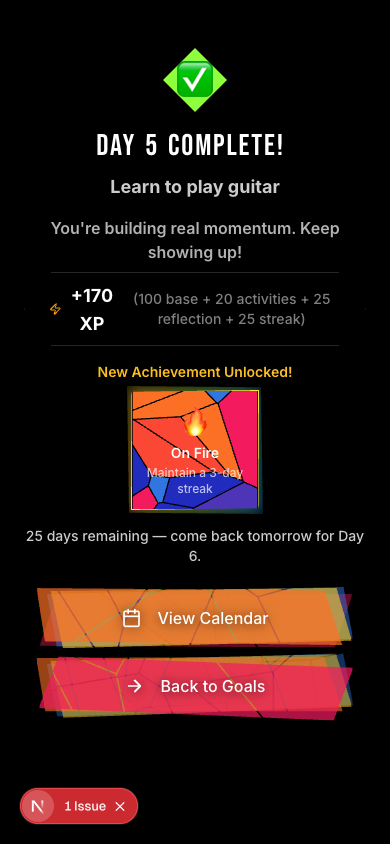
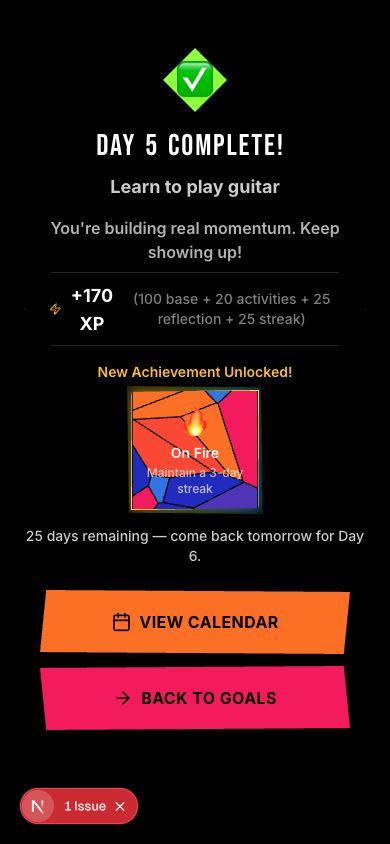
feat: new shard OG card, fresh screenshots, fix Your Activities wrapping
- OG card rebuilt with angled/skewed shard tiles + per-letter colored tagline
- Fresh screenshots for homepage: calendar (colored day shards), day view, congrats
- Fixed "Your Activities" heading wrapping to two lines (text-4xl + whitespace-nowrap)

Changed region(s): [[0.0923, 0.6777, 0.9231, 0.8626]]

diff --git a/src/app/opengraph-image.tsx b/src/app/opengraph-image.tsx
@@ -13,23 +13,27 @@ export default async function Image() {
   )
   const notoFont = await readFile(notoPath)
 
-  // Mosaic tile layout — irregularly placed colored blocks with black gaps
-  const tiles = [
-    // top row
-    { x: -10, y: -20, w: 300, h: 240, color: "#db2b85", r: -2 },
-    { x: 300, y: -25, w: 260, h: 230, color: "#3075e1", r: 3 },
-    { x: 570, y: -15, w: 280, h: 250, color: "#f9334d", r: -1 },
-    { x: 860, y: -20, w: 180, h: 220, color: "#fb7025", r: 2 },
-    { x: 1040, y: -25, w: 200, h: 260, color: "#4e35b8", r: -3 },
-    // middle sides (peeking out from behind text bar)
-    { x: -20, y: 220, w: 250, h: 200, color: "#fa4835", r: 2 },
-    { x: 980, y: 210, w: 260, h: 220, color: "#fcd02a", r: -2 },
-    // bottom row
-    { x: -15, y: 420, w: 280, h: 260, color: "#3075e1", r: -3 },
-    { x: 270, y: 410, w: 260, h: 270, color: "#cf1b61", r: 2 },
-    { x: 540, y: 425, w: 250, h: 250, color: "#db2b85", r: -1 },
-    { x: 800, y: 410, w: 220, h: 270, color: "#fcd02a", r: 3 },
-    { x: 1020, y: 420, w: 230, h: 260, color: "#fa4835", r: -2 },
+  // Shard tiles — angled/skewed colored blocks with gaps
+  const shards = [
+    // top-left cluster
+    { x: -30, y: -40, w: 320, h: 220, color: "#FFE633", skew: -4, rotate: -2 },
+    { x: 280, y: -30, w: 280, h: 200, color: "#FF2D55", skew: 3, rotate: 1 },
+    { x: 550, y: -35, w: 250, h: 210, color: "#00EAFF", skew: -2, rotate: -3 },
+    { x: 790, y: -25, w: 230, h: 190, color: "#FF10F0", skew: 4, rotate: 2 },
+    { x: 1010, y: -40, w: 240, h: 230, color: "#FF6B2B", skew: -3, rotate: -1 },
+    // left side
+    { x: -40, y: 180, w: 200, h: 280, color: "#4FC3F7", skew: 3, rotate: 2 },
+    { x: 140, y: 200, w: 100, h: 240, color: "#FF4500", skew: -5, rotate: -2 },
+    // right side
+    { x: 980, y: 170, w: 130, h: 300, color: "#2979FF", skew: -4, rotate: 1 },
+    { x: 1100, y: 190, w: 150, h: 260, color: "#FFE633", skew: 3, rotate: -3 },
+    // bottom cluster
+    { x: -20, y: 440, w: 260, h: 240, color: "#FF6B2B", skew: 4, rotate: -2 },
+    { x: 230, y: 430, w: 240, h: 250, color: "#FF10F0", skew: -3, rotate: 3 },
+    { x: 460, y: 445, w: 220, h: 230, color: "#FFE633", skew: 2, rotate: -1 },
+    { x: 670, y: 435, w: 200, h: 240, color: "#FF2D55", skew: -4, rotate: 2 },
+    { x: 860, y: 440, w: 180, h: 250, color: "#00EAFF", skew: 3, rotate: -3 },
+    { x: 1030, y: 430, w: 220, h: 260, color: "#4FC3F7", skew: -2, rotate: 1 },
   ]
 
   const PALETTE = [
@@ -37,8 +41,8 @@ export default async function Image() {
     "#FF10F0", "#FF1493", "#4FC3F7", "#FF4500",
   ]
 
-  const letters = "ADD NEW GOAL".split("")
-  let colorIdx = 0
+  const topText = "FIRST DAY OF THE"
+  const bottomText = "REST OF YOUR LIFE"
 
   return new ImageResponse(
     (
@@ -52,67 +56,82 @@ export default async function Image() {
           overflow: "hidden",
         }}
       >
-        {/* Mosaic tiles */}
-        {tiles.map((t, i) => (
+        {/* Shard tiles with skew + rotate for angular look */}
+        {shards.map((s, i) => (
           <div
             key={i}
             style={{
               position: "absolute",
-              left: t.x,
-              top: t.y,
-              width: t.w,
-              height: t.h,
-              backgroundColor: t.color,
-              transform: `rotate(${t.r}deg)`,
+              left: s.x,
+              top: s.y,
+              width: s.w,
+              height: s.h,
+              backgroundColor: s.color,
+              transform: `rotate(${s.rotate}deg) skewX(${s.skew}deg)`,
             }}
           />
         ))}
 
-        {/* Black bar with colored text */}
+        {/* Center content — black bar with tagline */}
         <div
           style={{
             position: "absolute",
-            left: 40,
-            right: 40,
-            top: 210,
-            height: 210,
+            left: 30,
+            right: 30,
+            top: 170,
+            height: 290,
             backgroundColor: "#000000",
             display: "flex",
+            flexDirection: "column",
             alignItems: "center",
             justifyContent: "center",
+            gap: 8,
           }}
         >
-          {/* Plus sign */}
-          <span
-            style={{
-              color: "#ffffff",
-              fontSize: 130,
-              fontWeight: 900,
-              marginRight: 16,
-            }}
-          >
-            +
-          </span>
-          {/* Colored letters */}
+          {/* Top line: colored per-letter */}
           <div style={{ display: "flex", alignItems: "center" }}>
-            {letters.map((char, i) => {
+            {topText.split("").map((char, i) => {
               if (char === " ") {
                 return (
-                  <span key={i} style={{ width: 30 }}>
+                  <span key={i} style={{ width: 24 }}>
                     {" "}
                   </span>
                 )
               }
-              const color = PALETTE[colorIdx % PALETTE.length]
-              colorIdx++
               return (
                 <span
                   key={i}
                   style={{
-                    color,
-                    fontSize: 130,
+                    color: PALETTE[i % PALETTE.length],
+                    fontSize: 90,
                     fontWeight: 900,
-                    letterSpacing: -2,
+                    letterSpacing: -1,
+                  }}
+                >
+                  {char}
+                </span>
+              )
+            })}
+          </div>
+
+          {/* Bottom line: colored per-letter */}
+          <div style={{ display: "flex", alignItems: "center" }}>
+            {bottomText.split("").map((char, i) => {
+              if (char === " ") {
+                return (
+                  <span key={i} style={{ width: 24 }}>
+                    {" "}
+                  </span>
+                )
+              }
+              return (
+                <span
+                  key={i}
+                  style={{
+                    color: PALETTE[(i + 4) % PALETTE.length],
+                    fontSize: 90,
+                    fontWeight: 900,
+                    letterSpacing: -1,
                   }}
                 >
                   {char}
@@ -126,7 +145,7 @@ export default async function Image() {
         <div
           style={{
             position: "absolute",
-            bottom: 20,
+            bottom: 16,
             left: 0,
             right: 0,
             display: "flex",
@@ -135,12 +154,12 @@ export default async function Image() {
         >
           <span
             style={{
-              fontSize: 20,
+              fontSize: 22,
               fontWeight: 900,
               color: "#ffffff",
-              letterSpacing: 4,
+              letterSpacing: 6,
               backgroundColor: "#000000",
-              padding: "6px 20px",
+              padding: "8px 24px",
             }}
           >
             FIRSTDAY.LIFE

diff --git a/src/components/DayView.tsx b/src/components/DayView.tsx
@@ -113,7 +113,7 @@ export function DayView({ day, onComplete, isCompleted = false, savedProgress = 
               <MosaicCard seed={1} className="backdrop-blur-md min-h-screen px-4 md:px-8">
                 <CardHeader>
                   <div className="bg-black px-6 py-4 inline-block" style={{ clipPath: "polygon(1% 0%, 100% 3%, 99% 97%, 0% 100%)" }}>
-                    <h2 className="text-5xl md:text-6xl font-black italic uppercase tracking-wide" style={{ fontFamily: "var(--font-bebas), system-ui, sans-serif" }}>
+                    <h2 className="text-4xl md:text-6xl font-black italic uppercase tracking-wide whitespace-nowrap" style={{ fontFamily: "var(--font-bebas), system-ui, sans-serif" }}>
                       {"Your Activities".split("").map((char, i) => (
                         <span key={i} style={{ color: char === " " ? "transparent" : monotone ? "#ffffff" : ["#FFE633","#FF6B2B","#FF2D55","#00EAFF","#FF10F0","#FF1493","#4FC3F7","#FF4500"][i % 8], width: char === " " ? "0.3em" : undefined, display: "inline-block" }}>{char}</span>
                       ))}
